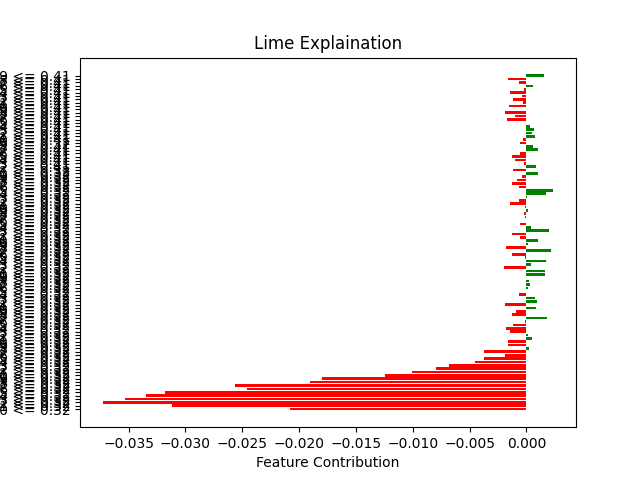
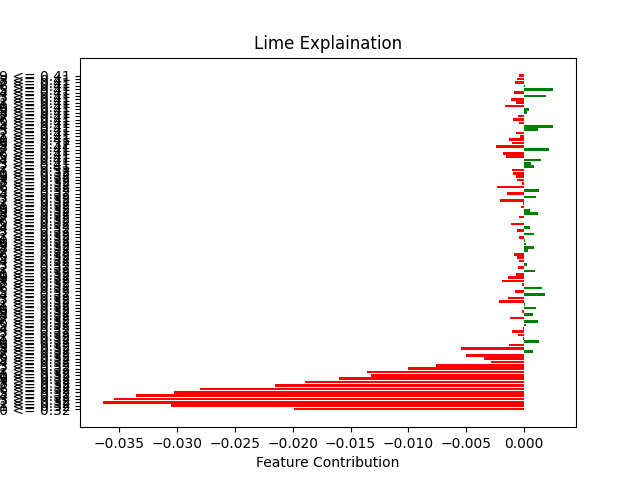
Add explanations

diff --git a/json_sample.py b/json_sample.py
@@ -1,9 +1,7 @@
 import json
 import os
-import pickle
 import configparser as cp
-import numpy as np
-import pandas as pd
+
 config=cp.RawConfigParser()
 config.read('config/config.properties')
 
@@ -15,15 +13,17 @@ json_report = dict()
 sep = '/'
 
 def preprocessing_stage():
-    # loading all meta info
-    # with open(sep.join([config.get('save_path', 'meta_data_save_path'),
-    #                     'meta_info_data_diagnostic.pkl']), 'rb') as f:
-    #     data_diagnostic_meta_info = pickle.load(f)
+
+    mean_dist_words = "This is a graph for visualizing the movement of the dataset.\nIt uses a simple fundamental math concept of moving average of size 10 and 20 to show the general trend of data.\nThe x-axis represents the indexes of the data and the y-axis represents the data name."
+
     mean_dist = {}
     if config.getboolean('vis', 'mean_plot'):
         vis_path = sep.join([config.get('vis', 'vis_path_folder1'),
                                      'mean_plot.png'])
-        d1= {'img_path': vis_path[10:]}
+        d1= {
+            'img_path': vis_path[10:],
+            'one_liner': mean_dist_words
+        }
         mean_dist.update(d1)
    
 
@@ -38,50 +38,74 @@ def preprocessing_stage():
 
 
 def modelling_stage():
-    # loading all meta info
-    # with open(sep.join([config.get('save_path', 'meta_data_save_path'),
-    #                     'meta_info_data_diagnostic.pkl']), 'rb') as f:
-    #     data_diagnostic_meta_info = pickle.load(f)
+
+    n_steps = config.getint('features','time_step')+1
+
+    model_performance_words = "This is graph illustrating the trend of the dataset and the forecast/ prediction of the model without detection of drifts. The model utilizes\ntraining and test data (split part of dataset). The red line is the forecast of training data and yellow line is the forecast of test data.\nThis is to give an overview of the dataset and model. The x-axis and y-axis represents the indexes of data and the data name/type"
+    model_predection_words = "This is a graph illustrating the future prediction of model.\nThe plot showcases the data of past " + str(n_steps - 1) + " indexes (days) and predicts the future values for the next 10 indexes (days).\nThe x-axis represents the indexes of the data and the y-axis represents the data name/ type."
+    model_with_drift_detection_MAE_words = "This is a graph displaying the forecasting error of the concept drift aware model. The forecasting error is the absolute error(AE)\nbetween the prediction/ forecast of the model and the real value(Data). The dashed lines are for the indexes at which drift was\ndetected. The x-axis and y-axis represents the indexes of the dataset and the absolute error/difference"
+    model_with_drift_detection_performance_words = "This is a plot showcasing the trends of the dataset and the forecast/ prediction of the model utilizing detection of drifts.\nThe dashed lines represent the indexes of the dataset where drift was found. This is to give an overview of the dataset and model.\nThe x-axis represents the indexes of data in the input and the y-axis represents the name of the dataset"
+    models_comparison_words = "This is a graph ploting the results/ forecast of both the models and the dataset.\nThis is to provide a bigger picture of the models performance/ forecast and the real data.\nThe x-axis represents the indexes of the data and the y-axis represents the data name."
+    models_MAE_comparison_words = "This is plot showing the forecasting error of both the models (one with concept drift aware system and one without).\nThis is to compare the performance/ accuracy of the models. The forecasting error is the absolute difference between the model\nprediction and real data. The x-axis represents the indexes of the data and the y-axis represents the AE (Absolute error)"
+
     model_performance = {}
     if config.getboolean('vis', 'model_performance'):
         mdl_prm = sep.join([config.get('vis', 'vis_path_folder2'),
                                      'model_performance.png'])
-        d1= {'img_path': mdl_prm[10:]}
+        d1= {
+            'img_path': mdl_prm[10:],
+            'one_liner': model_performance_words
+        }
         model_performance.update(d1)
         
     model_predection = {}
     if config.getboolean('vis', 'model_predection'):
         mdl_pred = sep.join([config.get('vis', 'vis_path_folder2'),
                                      'model_predection.png'])
-        d1= {'img_path': mdl_pred[10:]}
+        d1= {
+            'img_path': mdl_pred[10:],
+            'one_liner': model_predection_words
+        }
         model_predection.update(d1)
 
     model_with_drift_detection_performance = {}
     if config.getboolean('vis', 'model_with_drift_detection_performance'):
         mdl_pred = sep.join([config.get('vis', 'vis_path_folder2'),
                                      'model_performance_CD.png'])
-        d1= {'img_path': mdl_pred[10:]}
+        d1= {
+            'img_path': mdl_pred[10:],
+            'one_liner': model_with_drift_detection_performance_words
+        }
         model_with_drift_detection_performance.update(d1)
 
     model_with_drift_detection_MAE = {}
     if config.getboolean('vis', 'model_with_drift_detection_MAE'):
         mdl_pred = sep.join([config.get('vis', 'vis_path_folder2'),
                                      'MAE.png'])
-        d1= {'img_path': mdl_pred[10:]}
+        d1= {
+            'img_path': mdl_pred[10:],
+            'one_liner': model_with_drift_detection_MAE_words
+        }
         model_with_drift_detection_MAE.update(d1)
 
     models_comparison = {}
     if config.getboolean('vis', 'models_comparison'):
         mdl_pred = sep.join([config.get('vis', 'vis_path_folder2'),
                                      'performance_comparison.png'])
-        d1= {'img_path': mdl_pred[10:]}
+        d1= {
+            'img_path': mdl_pred[10:],
+            'one_liner': models_comparison_words
+        }
         models_comparison.update(d1)
 
     models_MAE_comparison = {}
     if config.getboolean('vis', 'models_MAE_comparison'):
         mdl_pred = sep.join([config.get('vis', 'vis_path_folder2'),
                                      'performance_difference_comparison.png'])
-        d1= {'img_path': mdl_pred[10:]}
+        d1= {
+            'img_path': mdl_pred[10:],
+            'one_liner': models_MAE_comparison_words
+        }
         models_MAE_comparison.update(d1)
 
     json_report["Modelling"] = {
@@ -98,12 +122,78 @@ def modelling_stage():
 
     return None
 
+def local_explainabilty_stage():
+
+    deep_explain_words = "This shows attribution of every feature (Days in the time step) towards the target. It shows both the attribution by Integrated Gradients and Shapley Value sampling for a particular instance in the test dataset. Attribution is a real value R(x_i) for each input feature, with respect to a target neuron of interest. Positive value of feature shows that it contribute positively to the activation of the target output and vice-versa"
+    source_citation = ["https://github.com/marcoancona/DeepExplain", "arxiv.org/abs/1711.06104"]
+    about = "A unified framework of perturbation and gradient-based attribution methods for Deep Neural Networks interpretability. DeepExplain also includes support for Shapley Values sampling. (ICLR 2018)"
+    lime_explain_words = "This shows the local explanation of a particular instance in the training set. The graph shows the explanation of all 100 features for an instance. A local explanation is a local linear approximation of the model's behaviour around the vicinity of a particular instance."
+    lime_explain_minmax_words = "This shows the 10 highest weighted features/ days and 10 least weighted features of a particular instance while generating its local explanability. A local explanation is a local linear approximation of the model's behaviour around the vicinity of a particular instance."
+    source_citation = ["https://arxiv.org/abs/1602.04938", "https://github.com/marcotcr/lime", "https://stackoverflow.com/questions/61511874/how-can-i-use-lime-to-classify-my-time-series"]
+    about = "Lime: Explaining the predictions of any machine learning classifier"
+    xai_explain_words = "This is a plot showing the importance of each feature/ day in the time step by showing the loss created upon randomly shuffling any one feature/day. More the negative loss, More important the feature is. It uses the test dataset to create loss evaluations."
+    source_citation = ["https://github.com/EthicalML/xai", "https://ethical.institute/principles.html#commitment-3", "https://ethicalml.github.io/xai/index.html"]
+    videos = ["https://www.youtube.com/watch?v=vq8mDiDODhc", "https://www.youtube.com/watch?v=GZpfBhQJ0H4"]
+    about = "XAI - An eXplainability toolbox for machine learning"
+
+    deep_explain = {}
+    if config.getboolean('vis', 'deep_explain'):
+        mdl_prm = sep.join([config.get('vis', 'vis_path_folder3'),
+                                     'deep_explain.png'])
+        d1= {
+            'img_path': mdl_prm[10:],
+            'one_liner': deep_explain_words
+        }
+        deep_explain.update(d1)
+        
+    lime_explain = {}
+    if config.getboolean('vis', 'lime_explain'):
+        mdl_pred = sep.join([config.get('vis', 'vis_path_folder3'),
+                                     'lime_explain.png'])
+        d1= {
+            'img_path': mdl_pred[10:],
+            'one_liner': lime_explain_words
+        }
+        lime_explain.update(d1)
+
+    lime_explain_minmax = {}
+    if config.getboolean('vis', 'lime_explain_minmax'):
+        mdl_pred = sep.join([config.get('vis', 'vis_path_folder3'),
+                                     'lime_explain_minmax.png'])
+        d1= {
+            'img_path': mdl_pred[10:],
+            'one_liner': lime_explain_minmax_words
+        }
+        lime_explain_minmax.update(d1)
+
+    xai_explain = {}
+    if config.getboolean('vis', 'xai_explain'):
+        mdl_pred = sep.join([config.get('vis', 'vis_path_folder3'),
+                                     'xai_explain.png'])
+        d1= {
+            'img_path': mdl_pred[10:],
+            'one_liner': xai_explain_words
+        }
+        xai_explain.update(d1)
+
+    json_report["local_explainabilty"] = {
+        'deep_explain':deep_explain,
+        'lime_explain':lime_explain,
+        'lime_explain_minmax':lime_explain_minmax,
+        'xai_explain':xai_explain,
+        # 'Train Validation Test': {
+        #     'Train Validation Test Size': data_diagnostic_meta_info['train_val_test_split'],
+        # }
+    }
+
+    return None
 
 def json_dump_generation():
     # Storing meta data into dict
     #if parser.getboolean('loading_data_diagnostic', 'set_execution'):
     preprocessing_stage()
     modelling_stage()
+    local_explainabilty_stage()
     # dumping the JSON file
     print('json_report', json_report)
     path = os.getcwd() + '/Results'

diff --git a/helper_functions/local_explanability/LIME/limeExplainer.py b/helper_functions/local_explanability/LIME/limeExplainer.py
@@ -1,3 +1,4 @@
+import json
 from lime import lime_tabular
 import configparser as cp
 import pickle
@@ -37,15 +38,18 @@ weights = exp.as_list()
 minV, maxV = [], []
 t = [i[1] for i in weights]
 n = np.array(t)
+n_copy = n.copy()
+
 for i in range(10):
     j = np.argmin(n)
-    minV.append(weights[j])
-    n = np.delete(n, j)
+    minV.append((j,weights[j][1]))
+    n[j] = 10000000000
 
 for m in range(10):
-    k = np.argmax(n)
-    maxV.append(weights[k])
-    n = np.delete(n, k)
+    k = np.argmax(n_copy)
+    maxV.append((k,weights[k][1]))
+    n_copy = np.delete(n_copy, k)
+    n_copy[k] = -10000000000
 
 minNames = [i[0] for i in minV]
 minValues = [i[1] for i in minV]
@@ -53,30 +57,23 @@ maxNames = [i[0] for i in maxV]
 maxValues = [i[1] for i in maxV]
 minColors = ['green' if x > 0 else 'red' for x in minValues]
 maxColors = ['green' if x > 0 else 'red' for x in maxValues]
-print(maxNames)
-print(maxValues)
 figure, axes = plt.subplots(nrows=1, ncols=2)
-figure.figsize= (12,6)
+figure.figsize= (16,8)
 pos = np.arange(10)
-
-fontdictlol = {'fontsize': 20,
- 'fontweight': 'bold',
- 'verticalalignment': 'baseline',
- 'horizontalalignment': 'loc'}
 
 axes[0].barh(pos, minValues, align='center', color=minColors)
 axes[0].set_yticks(pos, minor=False)
 axes[0].set_yticklabels(minNames, fontdict=None, minor=False)
 axes[0].set_title('Lime Explaination (10 Min)')
 axes[0].set_xlabel('Feature Contribution')
-axes[0].set_ylabel('Days or Features of input (With discretizer range)')
+axes[0].set_ylabel('Days or Features of input')
 
 axes[1].barh(pos, maxValues, align='center', color=maxColors)
 axes[1].set_yticks(pos, minor=False)
-axes[1].set_yticklabels(maxNames, fontdict=fontdictlol, minor=False)
+axes[1].set_yticklabels(maxNames, fontdict=None, minor=False)
 axes[1].set_title('Lime Explaination (10 Max)')
 axes[1].set_xlabel('Feature Contribution')
-axes[1].set_ylabel('Days or Features of input (With discretizer range)')
+axes[1].set_ylabel('Days or Features of input')
 
 #saving graphic
 if not os.path.exists(config.get('vis','vis_path_folder3')):
